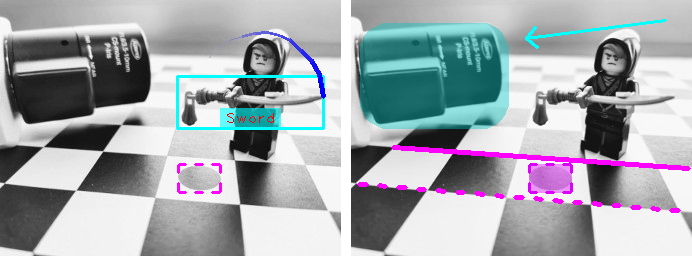
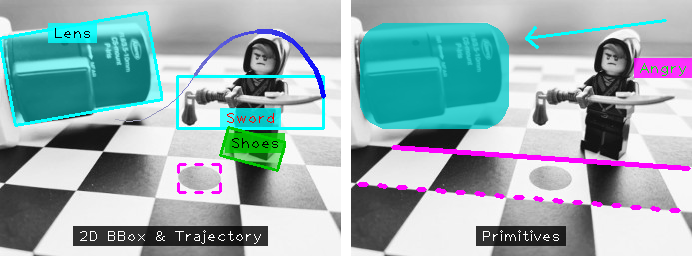
update visuals

diff --git a/examples/python3/imvis_demo.py b/examples/python3/imvis_demo.py
@@ -144,6 +144,86 @@ def demo_overlay():
     imvis.imshow(collage, title="Overlay & Highlights", wait_ms=-1)
 
 
+def demo_primitives():
+    img = imutils.imread('../data/ninja.jpg', mode='RGB')  # Load grayscale as 3-channel image
+    # Draw rounded box(es)
+    vis_img = imvis.draw_rounded_rects(img, [(9, 23, 149, 106)],
+        corner_percentage=0.25, fill_opacity=0.75, line_width=0, color=(0, 200, 200), non_overlapping=True)
+    # Draw filled & dashed rect
+    # vis_img = imvis.draw_rects(vis_img, [(178, 164, 43, 29)], fill_opacity=0.4, line_width=2, dash_length=10, color=(220, 0, 255))
+
+    # Draw lines - a line is a list or tuple: ((start-point), (end-point), is_dashed, color)
+    lines = [
+        [(7, 184), (329, 211), True, (255, 0, 255)],  # Dashed
+        [(42, 147), (337, 168), False, (255, 0, 255)]]  # Solid
+    vis_img = imvis.draw_lines(vis_img, lines, line_width=3, default_color=(200, 255, 0), dash_length=10)
+
+    # Draw arrows - same format as lines (see above)
+    arrows = [[(314, 20), (175, 38), False, (0, 255, 255)]]
+        #[(320, 33), (316, 87), True, (0, 255, 255)]]
+    vis_img = imvis.draw_arrows(vis_img, arrows, line_width=2, default_color=(0,200,255), dash_length=10, arrow_head_factor=0.1)
+    
+    # Draw text box
+    vis_img = imvis.draw_text_box(vis_img, 'Angry',
+        (283, 68), text_anchor='west',
+        bg_color=(255, 0, 255), font_color=(-1, -1, -1),
+        font_scale=1.0, font_thickness=1,
+        padding=5, fill_opacity=0.8)
+    #TODO arrows, etc
+
+    return vis_img
+
+
+def demo_bbox2d():
+    # Bounding boxes
+    img = imutils.imread('../data/ninja.jpg', mode='RGB')  # Load grayscale as 3-channel image
+    bboxes2d = [
+        ((178, 164, 43, 29), (255, 0, 255), '', True),  # Dashed violett rect (at the target's dot)
+        (np.array([177, 76, 147, 53]), (0, 255, 255), 'Sword'),  # Also accepts a 4-element np.array
+        ]
+    vis_img = imvis.draw_bboxes2d(
+        img, bboxes2d, text_anchor='south',
+        font_scale=1.0, font_thickness=1, text_box_opacity=0.75,
+        line_width=2)
+
+    # Rotated bounding box
+    vis_img = imvis.draw_rotated_bboxes2d(vis_img,
+        [((252, 148, 60, 30, 15), (0, 200, 0), 'Shoes'),
+        ((80, 68, 150, 90, -10), (0, 255, 255), 'Lens')],
+        line_width=2,
+        fill_opacity=0.4,
+        font_color=(0, 0, 0),
+        text_anchor="north",
+        font_scale=1.0, font_thickness=1,
+        text_padding=5,
+        text_box_opacity=0.8)
+
+    # Trajectory
+    traj_sword = [(323, 96), (321, 83), (317, 68), (310, 54), (305, 44), (294, 35),
+        (283, 29), (273, 27), (261, 26), (246, 28), (231, 33), (217, 40), (207, 49),
+        (201, 62), (196, 74), (192, 87), (183, 100), (175, 112), (159, 120), (144, 123),
+        (128, 123), (115, 119)]
+    # traj_ninja = [(278, 148), (290, 147), (302, 150), (307, 162),
+    #     (307, 177), (287, 184), (270, 187), (256, 195), (239, 199), (222, 211), (211, 222), (204, 230), (197, 239)]
+
+    vis_img = imvis.draw_fading_trajectory(vis_img, traj_sword, newest_position_first=True,
+        smoothing_window=7, trajectory_length=-1,
+        obj_color=(0, 0, 255), fade_color=(180, 180, 180),  # Fade towards gray
+        max_line_width=4, dash_length=-1)
+    from vcp import ui_basics
+    print(ui_basics.select_points(vis_img))
+    
+    # # Flip the trajectory
+    # trajectory = imutils.flip_points(trajectory, image_size=(im_width, im_height), flip_horizontally=True, flip_vertically=False)
+    # # Rotate the trajectory
+    # trajectory = imutils.rotate_points(trajectory, (im_width/2.0, im_height/2.0), np.deg2rad(-20))
+    # # Draw without fading
+    # vis_img = imvis.draw_trajectory(vis_img, trajectory, smoothing_window=-1, color=(255,0,0), dash_length=10, line_width=3)
+    # Simplify with RDP    
+    # trajectory = math2d.simplify_trajectory_rdp(trajectory, 50)
+    # vis_img = trajvis.draw_trajectory(vis_img, trajectory, smoothing_window=-1, obj_color=(0,0,0), dash_length=10, line_width=3)
+    return vis_img
+
 if __name__ == "__main__":
     demo_pseudocolor()
 
@@ -171,111 +251,68 @@ if __name__ == "__main__":
     ############################################################################
     ## Drawing
     images = list()
-    # Bounding boxes
-    img = imutils.imread('../data/ninja.jpg', mode='RGB')  # Load grayscale as 3-channel image
-    im_height, im_width = img.shape[0], img.shape[1]
-    bboxes2d = [
-        ((178, 164, 43, 29), (255, 0, 255), '', True),  # Dashed violett rect (at the target's dot)
-        (np.array([177, 76, 147, 53]), (0, 255, 255), 'Sword'),  # Also accepts a 4-element np.array
-        ]
-    vis_img = imvis.draw_bboxes2d(
-        img, bboxes2d, text_anchor='south',
-        font_scale=1.0, font_thickness=1, text_box_opacity=0.6,
-        line_width=2)
-
-    # Trajectories
-    traj_sword = [(323, 96), (320, 72), (316, 55), (303, 42),
-        (297, 35), (280, 28), (267, 27), (253, 27), (242, 31), (227, 38), (216, 48), (209, 57)]
-    traj_ninja = [(278, 148), (290, 147), (302, 150), (307, 162),
-        (307, 177), (287, 184), (270, 187), (256, 195), (239, 199), (222, 211), (211, 222), (204, 230), (197, 239)]
-
-    vis_img = imvis.draw_fading_trajectory(vis_img, traj_sword, newest_position_first=True,
-        smoothing_window=7, trajectory_length=-1,
-        obj_color=(0, 0, 255), fade_color=(180, 180, 180),  # Fade towards gray
-        max_line_width=4, dash_length=-1)
+    names = list()
     
-    # # Flip the trajectory
-    # trajectory = imutils.flip_points(trajectory, image_size=(im_width, im_height), flip_horizontally=True, flip_vertically=False)
-    # # Rotate the trajectory
-    # trajectory = imutils.rotate_points(trajectory, (im_width/2.0, im_height/2.0), np.deg2rad(-20))
-    # # Draw without fading
-    # vis_img = imvis.draw_trajectory(vis_img, trajectory, smoothing_window=-1, color=(255,0,0), dash_length=10, line_width=3)
-    # Simplify with RDP    
-    # trajectory = math2d.simplify_trajectory_rdp(trajectory, 50)
-    # vis_img = trajvis.draw_trajectory(vis_img, trajectory, smoothing_window=-1, obj_color=(0,0,0), dash_length=10, line_width=3)
-    images.append(vis_img)
+    images.append(demo_bbox2d())
+    names.append('2D BBox & Trajectory')
 
-    # Draw rounded boxes
-    vis_img = imvis.draw_rounded_rects(img, [(9, 23, 149, 106)],
-        corner_percentage=0.25, fill_opacity=0.6, line_width=0, color=(0, 200, 200), non_overlapping=True)
-    # Draw filled & dashed rect
-    # vis_img = imvis.draw_rects(vis_img, [(178, 164, 43, 29)], fill_opacity=0.4, line_width=2, dash_length=10, color=(220, 0, 255))
+    
 
-    # Draw lines - a line is a list or tuple: ((start-point), (end-point), is_dashed, color)
-    lines = [
-        [(7, 184), (329, 211), True, (255, 0, 255)],  # Dashed
-        [(42, 147), (337, 168), False, (255, 0, 255)]]  # Solid
-    vis_img = imvis.draw_lines(vis_img, lines, line_width=3, default_color=(200, 255, 0), dash_length=10)
+    images.append(demo_primitives())
+    names.append('Primitives')
 
-    # Draw arrows - same format as lines (see above)
-    arrows = [[(314, 20), (175, 38), False, (0, 255, 255)]]
-        #[(320, 33), (316, 87), True, (0, 255, 255)]]
-    vis_img = imvis.draw_arrows(vis_img, arrows, line_width=2, default_color=(0,200,255), dash_length=10, arrow_head_factor=0.1)
-    images.append(vis_img)
-
-    # TODO added alpha channel to render image for README
+    # Add alpha channel to render the README visualization
     images[0] = np.dstack((images[0], 255*np.ones(images[0].shape[:2], dtype=np.uint8)))
-    collage = imvis.make_collage(images, padding=10, bg_color=(0, 0, 0, 0), num_images_per_row=len(images))
+    padding=10
+    collage = imvis.make_collage(images, padding=padding, bg_color=(0, 0, 0, 0), num_images_per_row=len(images))
     # TODO add labels
-    names = ['BBox & Trajectory', 'Primitives']
+    height, width = collage.shape[:2]
+    mask_width = (width - (len(names)-1)*padding) / len(names)
+    for i in range(len(names)):
+        pos = (i * (mask_width + padding) + mask_width/2, height - 10)
+        collage = imvis.draw_text_box(collage, names[i],
+            pos, text_anchor='south', bg_color=(0, 0, 0),
+            font_color=(-1, -1, -1), font_scale=1.0,
+            font_thickness=1, padding=5, fill_opacity=0.8)
+
     imvis.imshow(collage, title='Basic Drawing', wait_ms=-1)
     imutils.imsave('example-imvis.png', collage)
-    
-
-    # Draw a fancy text box
-    vis_img = imvis.draw_text_box(vis_img, "Small centered text", (414, 181), 
-                    font_scale=0.75, font_thickness=1, text_anchor='center')
-    vis_img = imvis.draw_text_box(vis_img, "Nasty text outside image", (im_width*3/4, 20), 
-                    font_scale=2, font_thickness=2, text_anchor='south', bg_color=(255,255,255))
-    vis_img = imvis.draw_text_box(vis_img, "Nasty text outside image", (im_width/2, im_height-30), 
-                    font_scale=2, font_thickness=3, text_anchor='northeast', bg_color=(255,0,0))
-
-    vis_fancy = vis_img.copy()
+    raise RuntimeError()
     
     
-    # Rectangles (pt coords of rotated rects are their centers!)
-    # Touching left/top border
-    vis_img = imvis.draw_rotated_rects(rgb, [[20, 30, 120, 40, 45]], fill_opacity=0.0, line_width=4, 
-            dash_length=-1, color=(200, 20, 0))
-    vis_img = imvis.draw_rotated_rects(vis_img, [[20, 30, 120, 40, 45]], fill_opacity=0.2, line_width=2, 
-            dash_length=10, color=(0, 200, 0))
-    # Touching right/top border
-    vis_img = imvis.draw_rotated_rects(vis_img, [[im_width-20, 35, 120, 40, 45]], fill_opacity=0.0, 
-            line_width=4, dash_length=-1, color=(200, 20, 200))
-    vis_img = imvis.draw_rotated_rects(vis_img, [[im_width-60, 35, 120, 40, 45]], fill_opacity=0.2, 
-            line_width=2, dash_length=10, color=(0, 200, 0))
+    # # Rectangles (pt coords of rotated rects are their centers!)
+    # # Touching left/top border
+    # vis_img = imvis.draw_rotated_rects(rgb, [[20, 30, 120, 40, 45]], fill_opacity=0.0, line_width=4, 
+    #         dash_length=-1, color=(200, 20, 0))
+    # vis_img = imvis.draw_rotated_rects(vis_img, [[20, 30, 120, 40, 45]], fill_opacity=0.2, line_width=2, 
+    #         dash_length=10, color=(0, 200, 0))
+    # # Touching right/top border
+    # vis_img = imvis.draw_rotated_rects(vis_img, [[im_width-20, 35, 120, 40, 45]], fill_opacity=0.0, 
+    #         line_width=4, dash_length=-1, color=(200, 20, 200))
+    # vis_img = imvis.draw_rotated_rects(vis_img, [[im_width-60, 35, 120, 40, 45]], fill_opacity=0.2, 
+    #         line_width=2, dash_length=10, color=(0, 200, 0))
 
-    # Bottom/right
-    vis_img = imvis.draw_rotated_rects(vis_img, [[300, 500, 120, 40, 95]], fill_opacity=0.4, 
-            line_width=2, dash_length=-1, color=(0, 20, 200))
-    vis_img = imvis.draw_rotated_rects(vis_img, [[480, 400, 120, 40, -60]], fill_opacity=0.7, 
-            line_width=2, dash_length=10, color=(200, 0, 200))
-    vis_img = imvis.draw_rotated_rects(vis_img, [[480, 500, 120, 40, -120]], fill_opacity=0.79,
-            line_width=2, dash_length=10, color=(0, 200, 200))
+    # # Bottom/right
+    # vis_img = imvis.draw_rotated_rects(vis_img, [[300, 500, 120, 40, 95]], fill_opacity=0.4, 
+    #         line_width=2, dash_length=-1, color=(0, 20, 200))
+    # vis_img = imvis.draw_rotated_rects(vis_img, [[480, 400, 120, 40, -60]], fill_opacity=0.7, 
+    #         line_width=2, dash_length=10, color=(200, 0, 200))
+    # vis_img = imvis.draw_rotated_rects(vis_img, [[480, 500, 120, 40, -120]], fill_opacity=0.79,
+    #         line_width=2, dash_length=10, color=(0, 200, 200))
 
-    # Axis-aligned boxes, touching borders
-    vis_img = imvis.draw_rects(vis_img, [[-10, 150, 20, 30]], fill_opacity=0.0, 
-            line_width=2, dash_length=-1, color=(200, 20, 0))
-    vis_img = imvis.draw_rects(vis_img, [[im_width/2, -10, 20, 30]], fill_opacity=0.0, 
-            line_width=2, dash_length=-1, color=(200, 20, 0))
-    vis_img = imvis.draw_rects(vis_img, [[im_width-10, im_height/2, 20, 30]], fill_opacity=0.0, 
-            line_width=2, dash_length=-1, color=(200, 20, 0))
-    vis_img = imvis.draw_rects(vis_img, [[im_width/2, im_height-10, 20, 30]], fill_opacity=0.0, 
-            line_width=2, dash_length=-1, color=(200, 20, 0))
+    # # Axis-aligned boxes, touching borders
+    # vis_img = imvis.draw_rects(vis_img, [[-10, 150, 20, 30]], fill_opacity=0.0, 
+    #         line_width=2, dash_length=-1, color=(200, 20, 0))
+    # vis_img = imvis.draw_rects(vis_img, [[im_width/2, -10, 20, 30]], fill_opacity=0.0, 
+    #         line_width=2, dash_length=-1, color=(200, 20, 0))
+    # vis_img = imvis.draw_rects(vis_img, [[im_width-10, im_height/2, 20, 30]], fill_opacity=0.0, 
+    #         line_width=2, dash_length=-1, color=(200, 20, 0))
+    # vis_img = imvis.draw_rects(vis_img, [[im_width/2, im_height-10, 20, 30]], fill_opacity=0.0, 
+    #         line_width=2, dash_length=-1, color=(200, 20, 0))
     
 
-    collage = imvis.make_collage([vis_boxes2, vis_fancy, vis_img], padding=5, bg_color=(255,255,255))
-    imvis.imshow(collage, title="Drawing primitives (highly cluttered)")
+    # collage = imvis.make_collage([vis_boxes2, vis_fancy, vis_img], padding=5, bg_color=(255,255,255))
+    # imvis.imshow(collage, title="Drawing primitives (highly cluttered)")
 
 
     ############################################################################
